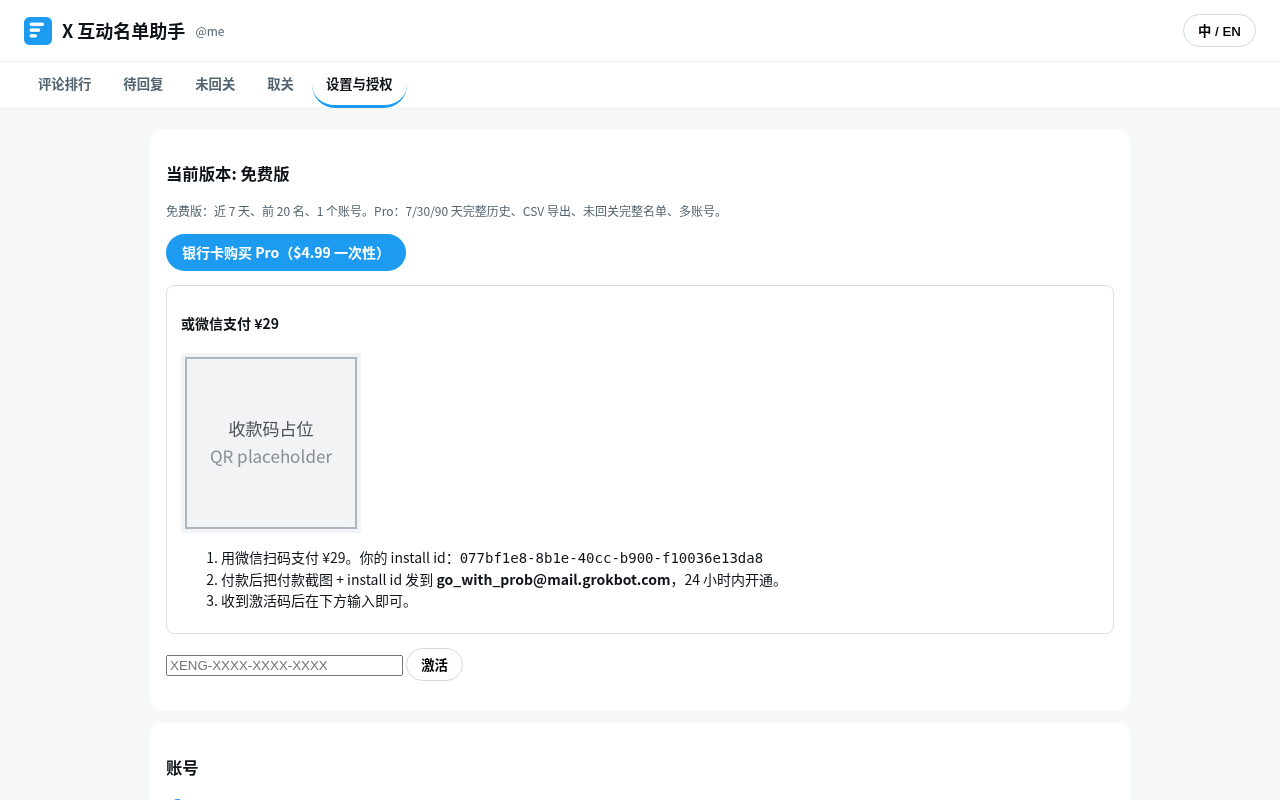
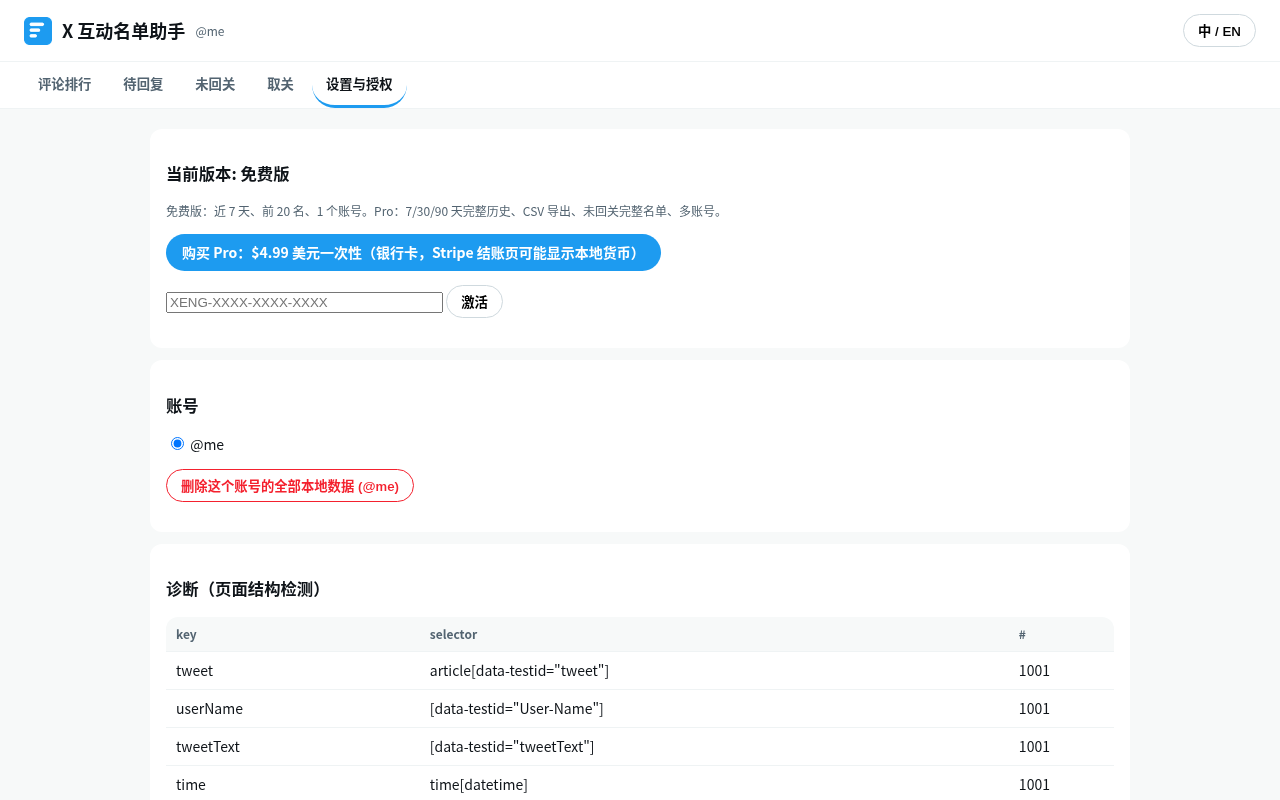
Stripe only (WeChat removed), release QR guard, bilingual landing site, forced refund re-check

diff --git a/tests/upgrade.test.ts b/tests/upgrade.test.ts
@@ -10,8 +10,42 @@ describe('upgrade link', () => {
   });
 });
 
-describe('manual WeChat option', () => {
-  it('is configured with ¥29, a placeholder contact and a local QR file', () => {
-    expect(CONFIG.WECHAT).toMatchObject({ ENABLED: true, PRICE_CNY: 29, QR: 'wechat_pay_qr.jpg', CONTACT: 'go_with_prob@mail.grokbot.com' });
+describe('Stripe only (no WeChat)', () => {
+  it('has no WeChat config or copy in the extension sources', async () => {
+    const { readFileSync, readdirSync } = await import('node:fs');
+    expect((CONFIG as Record<string, unknown>).WECHAT).toBeUndefined();
+    const files = [...readdirSync('src').map((f) => `src/${f}`), 'static/dashboard.html', 'static/dashboard.css',
+                   'static/_locales/en/messages.json', 'static/_locales/zh_CN/messages.json', 'store/listing.zh.md', 'store/listing.en.md'];
+    for (const f of files) {
+      const t = readFileSync(f, 'utf8');
+      for (const bad of ['微信', '¥29', '¥129', 'wechat', '收款码', '付款截图']) expect(t.toLowerCase(), `${bad} in ${f}`).not.toContain(bad.toLowerCase());
+    }
+  });
+});
+
+describe('release check', () => {
+  it('flags QR images, unexpected images and WeChat copy; passes a clean build', async () => {
+    const { mkdtempSync, mkdirSync, writeFileSync } = await import('node:fs');
+    const { tmpdir } = await import('node:os');
+    const { join } = await import('node:path');
+    const realQr = join(mkdtempSync(join(tmpdir(), 'qr-')), 'real.jpg');
+    writeFileSync(realQr, Buffer.from('fake-real-qr-bytes'));
+    process.env.XENG_REAL_QR_PATH = realQr;
+    vi.resetModules();
+    // @ts-expect-error plain .mjs script
+    const { checkRelease } = await import('../scripts/check_release.mjs');
+    const dir = mkdtempSync(join(tmpdir(), 'rel-'));
+    mkdirSync(join(dir, 'icons'));
+    writeFileSync(join(dir, 'icons/icon16.png'), 'png');
+    writeFileSync(join(dir, 'dashboard.html'), '<p>Buy Pro $4.99</p>');
+    expect(checkRelease(dir)).toEqual([]);
+    writeFileSync(join(dir, 'pay.jpg'), Buffer.from('fake-real-qr-bytes'));         // real QR under an innocent name
+    writeFileSync(join(dir, 'wechat_pay_qr.jpg'), 'x');
+    writeFileSync(join(dir, 'x.js'), 'const t = "或微信支付 ¥29"');
+    const bad = checkRelease(dir).join('\n');
+    expect(bad).toContain('pay.jpg: is the real payment QR');
+    expect(bad).toContain('wechat_pay_qr.jpg: QR/WeChat-like file name');
+    expect(bad).toContain('x.js: WeChat/QR payment text');
+    delete process.env.XENG_REAL_QR_PATH;
   });
 });

diff --git a/src/dashboard.ts b/src/dashboard.ts
@@ -88,22 +88,10 @@ async function viewSettings(): Promise<string> {
     <p class="muted">${esc(health.url)} · ${fmt(health.at)}</p>` : '<p class="muted">—</p>';
   return `<section><h3>${tr('plan')}: ${state.plan === 'pro' ? tr('pro') : tr('free')}</h3><p class="muted">${tr('freeNote')}</p>
     ${state.plan === 'pro' ? '' : `<p><a class="btn" href="${esc(upgradeUrl(state.installId))}" target="_blank">${tr('buy')}</a></p>
-    ${wechatBlock()}
     <p><input id="key" placeholder="XENG-XXXX-XXXX-XXXX" size="29"> <button id="act">${tr('activate')}</button> <span id="actmsg"></span></p>`}</section>
     <section><h3>${tr('account')}</h3>${accs.map((a) => `<label><input type="radio" name="acc" value="${esc(a)}" ${a === state.account ? 'checked' : ''}> @${esc(a)}</label> `).join('') || '—'}
     ${state.account ? `<p><button id="wipe" class="danger">${tr('wipe')} (@${esc(state.account)})</button></p>` : ''}</section>
     <section><h3>${tr('diag')}</h3>${diag}</section><p class="muted">${tr('privacy')} · <a href="${esc(CONFIG.PRIVACY_URL)}" target="_blank">Privacy</a></p>`;
-}
-
-/** Chinese-only manual WeChat Pay instructions with the install id the cashier needs. */
-export function wechatBlock(): string {
-  const w = CONFIG.WECHAT;
-  if (!w.ENABLED || state.lang !== 'zh') return '';
-  return `<div class="wechat"><h4>或微信支付 ¥${w.PRICE_CNY}</h4>
-    <img src="${esc(w.QR)}" alt="微信收款码" width="180" id="wxqr">
-    <ol><li>用微信扫码支付 ¥${w.PRICE_CNY}。你的 install id：<code>${esc(state.installId)}</code></li>
-    <li>付款后把付款截图 + install id 发到 <b>${esc(w.CONTACT)}</b>，24 小时内开通。</li>
-    <li>收到激活码后在下方输入即可。</li></ol></div>`;
 }
 
 async function deviceId(): Promise<string> {
@@ -139,7 +127,6 @@ function bind() {
     $('#actmsg').textContent = res.token && state.plan === 'pro' ? tr('activated') : tr('err') + (res.error || 'invalid-token');
     if (state.plan === 'pro') render();
   };
-  const qr = $('#wxqr') as HTMLImageElement | null; if (qr) qr.onerror = () => { qr.style.display = 'none'; };
   const wipe = $('#wipe');
   if (wipe) wipe.onclick = async () => { if (confirm(tr('wipe') + '?')) { await wipeAccount(state.account); await load(''); } };
 }

diff --git a/worker/test/worker.test.ts b/worker/test/worker.test.ts
@@ -99,6 +99,25 @@ describe('license worker', () => {
     expect([...env.LICENSES.m.values()].join()).not.toMatch(/@/); // no e-mails stored
   });
 
+  it('/paid re-checks refunds on every visit (forces revocation right after a refund)', async () => {
+    await call(`/paid?session_id=${SID}`);
+    const key = keyOf();
+    expect((await act(key, 'device-0001')).status).toBe(200);
+    charges.pi_1 = [charge({ amount_refunded: 499, refunded: true })];
+    expect((await act(key, 'device-0001')).status).toBe(200);        // activation: cached for 24 h
+    expect((await call(`/paid?session_id=${SID}`)).status).toBe(410); // /paid: immediate re-check
+    expect(await (await act(key, 'device-0001')).json()).toEqual({ error: 'revoked' });
+  });
+
+  it('works for a plain link purchase without client_reference_id (key tied to the session, not the install)', async () => {
+    sessions[SID] = session({ client_reference_id: null });
+    const r = await call(`/paid?session_id=${SID}`);
+    expect(r.status).toBe(200);
+    const key = keyOf();
+    expect(await r.text()).toContain(key);
+    expect((await act(key, 'any-other-device-01')).status).toBe(200);
+  });
+
   it('/paid always re-shows the key (no claim window), also long after issuance', async () => {
     await call(`/paid?session_id=${SID}`);
     const rec = JSON.parse(env.LICENSES.m.get(`key:${keyOf()}`)!) as LicenseRecord;
@@ -322,7 +341,7 @@ describe('admin CLI', () => {
     expect(code).toBe(0);
     expect(calls[0].url).toBe('https://license.test/admin/issue');
     expect((calls[0].init.headers as Record<string, string>).Authorization).toBe(`Bearer ${ADMIN}`);
-    expect(JSON.parse(String(calls[0].init.body))).toMatchObject({ channel: 'wechat', ref: 'wx1', source: 'cli' });
+    expect(JSON.parse(String(calls[0].init.body))).toMatchObject({ channel: 'comp', ref: 'wx1', source: 'cli' });
     expect(lines.join()).not.toContain(ADMIN);
     expect(await main(['issue', '--url', 'x', '--by', 'y', '--reason', 'r'], f, { ADMIN_TOKEN: 'short' }, out)).toBe(2);
   });

diff --git a/worker/src/index.ts b/worker/src/index.ts
@@ -355,7 +355,9 @@ async function paid(url: URL, env: Env, fetchImpl: typeof fetch = fetch): Promis
   try {
     const { key, rec: rec0 } = await redeem(sid, env, 'paid-redirect', fetchImpl);
     // the key is derived from the session, so this page can always re-show it (also after a store wipe)
-    const rec = await refreshRefund(key, rec0, env, fetchImpl);
+    // re-check the refund status on every visit (one extra read call): re-opening this page after a refund
+    // revokes the key immediately instead of waiting for the daily activation re-check
+    const rec = await refreshRefund(key, rec0, env, fetchImpl, true);
     if (rec.status !== 'active' || await isRevokedByEnv(key, rec, env)) throw new PayError('revoked', 410);
     return page(`<h1>感谢购买 X 互动名单助手 Pro / Thanks for buying Pro</h1><p>你的激活码 / Your license key:</p>
        <p><code style="font-size:22px;user-select:all">${esc(key)}</code></p>
@@ -469,7 +471,7 @@ async function readBody(req: Request): Promise<Record<string, unknown>> {
 async function adminIssue(req: Request, env: Env): Promise<Response> {
   const b = await readBody(req);
   const by = text(b.by, 'by'), reason = text(b.reason, 'reason');
-  const channel = String(b.channel || 'wechat').toLowerCase();
+  const channel = String(b.channel || 'comp').toLowerCase();
   if (!CHANNELS.has(channel)) throw new AdminError('bad channel');
   const ref = String(b.ref ?? '').trim();
   if (!ADMIN_REF_RE.test(ref)) throw new AdminError("'ref' (payment transaction id / note) is required: letters, digits, _-.:/# max 100");

diff --git a/src/i18n.ts b/src/i18n.ts
@@ -20,7 +20,7 @@ const D = {
             'Unfollow detection needs two complete Followers snapshots. Open your Followers page, click “Start snapshot”, and repeat in a few days.'],
   lastSnap: ['快照时间', 'Snapshot taken'], removed: ['取关了你', 'Unfollowed you'], added: ['新关注你', 'New followers'],
   account: ['账号', 'Account'], plan: ['当前版本', 'Plan'], free: ['免费版', 'Free'], pro: ['Pro', 'Pro'],
-  buy: ['银行卡购买 Pro（$4.99 一次性）', 'Buy Pro ($4.99 one-off)'], key: ['授权码', 'License key'], activate: ['激活', 'Activate'],
+  buy: ['购买 Pro：$4.99 美元一次性（银行卡，Stripe 结账页可能显示本地货币）', 'Buy Pro: $4.99 USD one-off (card; Stripe checkout may show your local currency)'], key: ['授权码', 'License key'], activate: ['激活', 'Activate'],
   wipe: ['删除这个账号的全部本地数据', 'Delete all local data for this account'], wiped: ['已删除', 'Deleted'],
   diag: ['诊断（页面结构检测）', 'Diagnostics (page structure check)'],
   privacy: ['所有数据只保存在你的浏览器本地，不上传任何服务器。唯一的网络请求是激活 Pro 授权。',

diff --git a/src/config.ts b/src/config.ts
@@ -8,9 +8,6 @@ export const CONFIG = {
   // ECDSA P-256 public key (JWK) matching the Worker's LICENSE_PRIVATE_JWK secret. Generate with `node scripts/keygen.mjs`.
   LICENSE_PUBLIC_JWK: { kty: 'EC', crv: 'P-256', x: 'ppmEi6hpdId5IJgYv3pIghDoHyteezJ15s6bssu5hko', y: 'bSnuoDnDL2bB_8uRaHZbz2gQe5fa7S34DaCEkH-gihQ' } as JsonWebKey,
   PRIVACY_URL: 'https://xeng-site.pages.dev/privacy',
-  // Manual WeChat Pay (Chinese UI only). The cashier issues the key by hand: docs/manual_unlock.md. No WeChat API.
-  // QR is a LOCAL, gitignored copy packaged from static/ (scripts/install_wechat_qr.sh); hidden if missing.
-  WECHAT: { ENABLED: true, PRICE_CNY: 29, QR: 'wechat_pay_qr.jpg', CONTACT: 'go_with_prob@mail.grokbot.com' },   // e-mail only; never a personal WeChat ID
 };
 
 /** Stripe allows alphanumerics, '-' and '_' (max 200) in client_reference_id. */

diff --git a/static/dashboard.css b/static/dashboard.css
@@ -10,4 +10,4 @@ button{border:1px solid #cfd9de;background:#fff;border-radius:999px;padding:6px 
 .empty{background:#fff;padding:24px;border-radius:12px;color:#536471}.upsell{background:#e8f5fd;padding:10px 14px;border-radius:10px}
 .btn{display:inline-block;background:#1d9bf0;color:#fff;padding:8px 16px;border-radius:999px;font-weight:700}section{background:#fff;padding:16px;border-radius:12px;margin-bottom:12px}
 .danger{color:#f4212e;border-color:#f4212e}.bad{color:#f4212e}#more{margin:12px auto;display:block}
-.wechat{border:1px solid #ddd;border-radius:8px;padding:8px 14px;margin:10px 0}.wechat img{display:block;margin:6px 0}
+

diff --git a/src/license.ts b/src/license.ts
@@ -41,7 +41,7 @@ export async function signToken(payload: LicensePayload, privateJwk: JsonWebKey)
   return `${p}.${b64urlEncode(sig)}`;
 }
 
-export const KEY_RE = /^XENG(-[A-Z0-9]{4}){3,4}$/;   // 3 groups: card payment; 4 groups: manual (WeChat)
+export const KEY_RE = /^XENG(-[A-Z0-9]{4}){3,4}$/;   // 3 groups: card payment; 4 groups: issued by hand (comps / support)
 
 export async function activate(apiBase: string, key: string, device: string, fetchImpl: typeof fetch = fetch):
     Promise<{ token?: string; error?: string }> {

diff --git a/scripts/build_site.py b/scripts/build_site.py
@@ -1,14 +1,105 @@
-"""Build the extension's public site (privacy policy for the Chrome Web Store) into site/ for Cloudflare Pages."""
-import html, pathlib, markdown
+"""Build the public site (bilingual landing page + privacy policy) into site/ for Cloudflare Pages.
+
+    python3 scripts/build_site.py            # then: wrangler pages deploy site --project-name xeng-site
+
+Stripe only, no WeChat. The release check (scripts/check_release.mjs) runs on site/ and fails the build on any
+payment QR, unexpected image or WeChat copy.
+"""
+import html, pathlib, shutil, subprocess, sys
+import markdown
+
+# One-line switch: show the "Buy Pro" Stripe link on the site. Off until the extension is in the Chrome Web Store
+# (a plain-link purchase works: the key is tied to the Checkout Session, not to an install).
+BUY_ENABLED = False
+
+PAYMENT_LINK = "https://buy.stripe.com/8x2bJ2gbY8bLfiC2hT0Ny03"
+CONTACT = "go_with_prob@mail.grokbot.com"
+NOTIFY = f"mailto:{CONTACT}?subject=Notify%20me%3A%20X%20Engagement%20List&body=Please%20email%20me%20when%20the%20extension%20is%20in%20the%20Chrome%20Web%20Store."
+SHOTS = {"en": [("en-1-leaderboard.png", "Top commenters"), ("en-2-pending.png", "Replies you haven't answered"),
+                ("en-3-not-following-back.png", "Not following back")],
+         "zh": [("zh-1-leaderboard.png", "评论排行"), ("zh-2-pending.png", "待回复"), ("zh-4-unfollowers.png", "取关名单")]}
+
 root = pathlib.Path(__file__).resolve().parents[1]
-out = root / "site"; out.mkdir(exist_ok=True)
+out = root / "site"
+shutil.rmtree(out, ignore_errors=True)
+(out / "screenshots").mkdir(parents=True)
+for lang in SHOTS:
+    for f, _ in SHOTS[lang]:
+        shutil.copyfile(root / "store" / "screenshots" / f, out / "screenshots" / f)
+
+CSS = """body{font:16px/1.65 system-ui,-apple-system,"PingFang SC","Microsoft YaHei",sans-serif;margin:0;color:#0f1419;background:#fff}
+main{max-width:980px;margin:0 auto;padding:0 20px 48px}header{display:flex;justify-content:space-between;align-items:center;max-width:980px;margin:0 auto;padding:16px 20px}
+.brand{font-weight:700;font-size:18px}.lang button{border:1px solid #cfd9de;background:#fff;border-radius:999px;padding:4px 12px;cursor:pointer;font:inherit;font-size:14px}
+h1{font-size:34px;line-height:1.25;margin:28px 0 12px}h2{font-size:24px;margin:44px 0 14px}.lead{font-size:19px;color:#36454f;max-width:760px}
+.btns{display:flex;flex-wrap:wrap;gap:10px;margin:22px 0}.btn{display:inline-block;padding:11px 20px;border-radius:999px;text-decoration:none;font-weight:600}
+.primary{background:#1d9bf0;color:#fff}.ghost{border:1px solid #cfd9de;color:#0f1419}.disabled{background:#eff3f4;color:#536471;cursor:not-allowed}
+.shots{display:grid;grid-template-columns:repeat(auto-fit,minmax(280px,1fr));gap:16px}.shots figure{margin:0}.shots img{width:100%;border:1px solid #e1e8ed;border-radius:10px}
+figcaption{font-size:14px;color:#536471;margin-top:6px}ul.points{padding-left:20px}ul.points li{margin:6px 0}
+table{border-collapse:collapse;width:100%;max-width:760px}th,td{border-bottom:1px solid #e1e8ed;padding:10px;text-align:left;vertical-align:top}th{background:#f7f9f9}
+.price{font-size:20px;font-weight:700}.muted{color:#536471;font-size:14px}footer{border-top:1px solid #e1e8ed;margin-top:48px;padding-top:18px}
+a{color:#1d9bf0}[data-lang]{display:none}html[lang=en] [data-lang=en],html[lang=zh-CN] [data-lang=zh]{display:block}"""
+
+T = {
+ "en": dict(title="X Engagement List — see who engages with your X posts",
+   h1="See who engages with your X posts, without sending your data anywhere.",
+   lead="A Chrome extension that turns the X pages you already visit into simple lists: your top commenters, the replies you haven't answered, and the accounts that don't follow you back. Everything is stored locally in your browser.",
+   install="Install from Chrome Web Store (coming soon)", notify="Notify me when it's available", buy="Buy Pro — $4.99 one-off",
+   shots="Screenshots", shots_note="Screenshots use sample data.",
+   what="What it does", points=["<b>Top commenters</b> (7 / 30 / 90 days): who replies to your posts most often, with a link to their latest reply.",
+     "<b>To reply</b>: comments on your posts that you haven't answered yet.",
+     "<b>Not following back</b>: open your own Following page and start a snapshot; the extension scrolls slowly (you can stop any time) and lists who doesn't follow you back.",
+     "<b>Unfollowers</b>: compare two complete snapshots of your Followers page to see who left."],
+   how="How it works", how_p="The extension reads the X pages you open in your own browser and stores what it sees in your browser's local database. It doesn't use the X API, doesn't ask for your password, and never follows, unfollows, likes, replies or messages. The only network request it makes is the Pro license check.",
+   plans="Free vs Pro", feat="Feature", free="Free", pro="Pro", rows=[("History window", "Last 7 days", "7 / 30 / 90 days"), ("Rows per list", "Top 20", "All rows"),
+     ("CSV export", "—", "✓"), ("X accounts", "1", "Multiple"), ("Price", "$0", "$4.99 USD one-off, no subscription")],
+   price_note="Pro is paid by card through Stripe and charged in USD; Stripe checkout may show your local currency. After paying you get a license key to enter in the extension's Settings. For refunds or questions, email us.",
+   privacy="Privacy policy", contact="Contact", disclaimer="Not affiliated with or endorsed by X Corp. “X” is used only to describe the website the extension works with."),
+ "zh": dict(title="X 互动名单助手 — 看清谁在和你互动",
+   h1="看清谁在和你的 X 帖子互动，数据不离开你的浏览器。",
+   lead="一个 Chrome 扩展：把你平时浏览的 X 页面整理成清单——评论最多的人、还没回复的评论、没有回关你的账号。所有数据只保存在你自己的浏览器里。",
+   install="从 Chrome 应用商店安装（即将上架）", notify="上架后通知我", buy="购买 Pro：$4.99 一次性",
+   shots="截图", shots_note="截图中为示例数据。",
+   what="功能", points=["<b>评论排行</b>（近 7 / 30 / 90 天）：谁最常回复你的帖子，并附最近一条回复的链接。",
+     "<b>待回复</b>：你还没有回复的评论。",
+     "<b>未回关</b>：打开你自己的「正在关注」页面并开始快照，扩展会慢慢滚动（随时可以停止），列出没有回关你的账号。",
+     "<b>取关名单</b>：对比两次完整的粉丝列表快照，看谁取关了你。"],
+   how="工作方式", how_p="扩展只读取你在自己浏览器里打开的 X 页面，并把看到的内容存进浏览器的本地数据库。不调用 X 的 API，不需要你的密码，也不会替你关注、取关、点赞、回复或私信。唯一的网络请求是 Pro 授权校验。",
+   plans="免费版 vs Pro", feat="功能", free="免费版", pro="Pro", rows=[("历史范围", "近 7 天", "7 / 30 / 90 天"), ("每个清单行数", "前 20 行", "全部"),
+     ("CSV 导出", "—", "✓"), ("X 账号数", "1 个", "多个"), ("价格", "$0", "$4.99 美元一次性，不订阅")],
+   price_note="Pro：$4.99 美元，通过 Stripe 用银行卡支付，按美元收费，结账页可能显示本地货币金额。付款后获得授权码，在扩展的「设置与授权」里输入即可。退款或其他问题请发邮件联系。",
+   privacy="隐私政策", contact="联系", disclaimer="本扩展与 X Corp. 无任何关联，也未获其认可。“X”仅用于说明扩展所适用的网站。"),
+}
+
+def section(lang):
+    t = T[lang]; e = html.escape
+    buy = f'<a class="btn ghost" href="{PAYMENT_LINK}">{e(t["buy"])}</a>' if BUY_ENABLED else ""
+    shots = "".join(f'<figure><a href="screenshots/{f}"><img src="screenshots/{f}" alt="{e(c)}" loading="lazy"></a><figcaption>{e(c)}</figcaption></figure>' for f, c in SHOTS[lang])
+    rows = "".join(f"<tr><td>{e(a)}</td><td>{e(b)}</td><td>{e(c)}</td></tr>" for a, b, c in t["rows"])
+    return f"""<div data-lang="{lang}"><h1>{e(t['h1'])}</h1><p class="lead">{e(t['lead'])}</p>
+<div class="btns"><span class="btn disabled" aria-disabled="true">{e(t['install'])}</span><a class="btn primary" href="{NOTIFY}">{e(t['notify'])}</a>{buy}</div>
+<h2>{e(t['shots'])}</h2><div class="shots">{shots}</div><p class="muted">{e(t['shots_note'])}</p>
+<h2>{e(t['what'])}</h2><ul class="points">{''.join(f'<li>{p}</li>' for p in t['points'])}</ul>
+<h2>{e(t['how'])}</h2><p>{e(t['how_p'])}</p>
+<h2>{e(t['plans'])}</h2><table><tr><th>{e(t['feat'])}</th><th>{e(t['free'])}</th><th>{e(t['pro'])}</th></tr>{rows}</table>
+<p class="muted">{e(t['price_note'])}</p>
+<footer><p><a href="/privacy">{e(t['privacy'])}</a> · {e(t['contact'])}: <a href="mailto:{CONTACT}">{CONTACT}</a></p><p class="muted">{e(t['disclaimer'])}</p></footer></div>"""
+
+index = f"""<!doctype html><html lang="en"><head><meta charset="utf-8"><meta name="viewport" content="width=device-width,initial-scale=1">
+<title>X Engagement List / X 互动名单助手</title><meta name="description" content="{html.escape(T['en']['lead'])}">
+<style>{CSS}</style><script>(function(){{var q=new URLSearchParams(location.search).get("lang");var zh=q?q==="zh":/^zh/i.test(navigator.language||"");
+document.documentElement.lang=zh?"zh-CN":"en";}})();</script></head><body>
+<header><div class="brand">X Engagement List · X 互动名单助手</div><div class="lang"><button type="button" id="lang">中 / EN</button></div></header>
+<main>{section('en')}{section('zh')}</main>
+<script>document.getElementById("lang").onclick=function(){{var h=document.documentElement;h.lang=h.lang==="en"?"zh-CN":"en";}};</script>
+</body></html>"""
+(out / "index.html").write_text(index, encoding="utf-8")
+
 body = markdown.markdown((root / "store" / "privacy-policy.md").read_text(encoding="utf-8"))
-page = lambda title, inner: f"""<!doctype html><html lang="en"><head><meta charset="utf-8"><meta name="viewport" content="width=device-width,initial-scale=1">
-<title>{html.escape(title)}</title><style>body{{font:16px/1.65 system-ui,-apple-system,"PingFang SC",sans-serif;max-width:760px;margin:40px auto;padding:0 18px;color:#0f1419}}h1{{font-size:24px}}a{{color:#1d9bf0}}</style></head><body>{inner}</body></html>"""
-(out / "privacy.html").write_text(page("Privacy Policy — X Engagement List", body), encoding="utf-8")
-(out / "index.html").write_text(page("X Engagement List / X 互动名单助手", """<h1>X Engagement List / X 互动名单助手</h1>
-<p>A local-only Chrome extension: commenter leaderboard, pending replies, and not-following-back lists from the X pages you visit. Your data stays in your browser.</p>
-<p>本地运行的 Chrome 扩展：评论排行、待回复清单、未回关名单。数据只保存在你的浏览器里。</p>
-<p><a href="privacy.html">Privacy Policy / 隐私政策</a> · Contact: go_with_prob@mail.grokbot.com</p>"""), encoding="utf-8")
+(out / "privacy.html").write_text(f"""<!doctype html><html lang="en"><head><meta charset="utf-8"><meta name="viewport" content="width=device-width,initial-scale=1">
+<title>Privacy Policy — X Engagement List</title><style>body{{font:16px/1.65 system-ui,-apple-system,"PingFang SC",sans-serif;max-width:760px;margin:40px auto;padding:0 18px;color:#0f1419}}h1{{font-size:24px}}a{{color:#1d9bf0}}</style></head>
+<body><p><a href="/">← X Engagement List</a></p>{body}</body></html>""", encoding="utf-8")
 (out / "_headers").write_text("/*\n  X-Content-Type-Options: nosniff\n  Referrer-Policy: strict-origin-when-cross-origin\n  X-Frame-Options: DENY\n", encoding="utf-8")
+r = subprocess.run(["node", str(root / "scripts" / "check_release.mjs"), str(out)])
+if r.returncode:
+    sys.exit("site/ failed the release check (QR / WeChat)")
 print("site/ ready:", sorted(p.name for p in out.iterdir()))

diff --git a/docs/manual_unlock.md b/docs/manual_unlock.md
@@ -1,10 +1,8 @@
-# 手动发码 / Manual license keys (WeChat Pay) for X 互动名单助手 Pro
+# 手动发码 / Manual license keys (comps and support) for X 互动名单助手 Pro
 
-For the cashier. In the Chinese UI (Settings), buyers see "或微信支付 ¥29": the QR, their **安装 ID / install id**, and the contact.
-The contact is **go_with_prob@mail.grokbot.com** (`src/config.ts` → `CONFIG.WECHAT.CONTACT`). Never publish a personal WeChat ID.
-Buyer copy (zh): "付款后把付款截图 + install id 发到 go_with_prob@mail.grokbot.com，24 小时内开通". **Issue the key within 24 h.**
-Buyers pay the QR, then send the install id plus a screenshot or transaction number.
-**No WeChat API is ever called**: the cashier checks the payment in WeChat by hand, then issues a key.
+Stripe is the only payment method. WeChat Pay was removed from the extension, the store listing and the site on
+2026-10-22, and no QR or ¥ price is shown anywhere. This path is for the owner only: free comps (reviewers,
+partners) and support cases. It never takes money itself. Every action is logged.
 
 ## 1. One-time setup: ADMIN_TOKEN
 
@@ -22,8 +20,8 @@ cd worker && npx wrangler secret put ADMIN_TOKEN       # paste it at the prompt
 
 ```bash
 read -rs ADMIN_TOKEN && export ADMIN_TOKEN   # paste; nothing is echoed and it isn't saved to shell history
-node scripts/admin.mjs issue --url <LICENSE_URL> --by owner --reason "WeChat Pay ¥29 confirmed" \
-  --ref 4200001234202610220001 --amount 29 --install <install id from the buyer>
+node scripts/admin.mjs issue --url <LICENSE_URL> --by owner --reason "comp for reviewer" \
+  --channel comp --ref comp-2026-001
 # → {"result":"issued","key":"XENG-…"}   send the key to the buyer; they paste it in Settings → Activate
 ```
 
@@ -31,14 +29,13 @@ or with curl:
 
 ```bash
 curl -sS -X POST "<LICENSE_URL>/admin/issue" -H "Authorization: Bearer $ADMIN_TOKEN" -H "Content-Type: application/json" \
-  -d '{"by":"owner","reason":"WeChat Pay confirmed","channel":"wechat","amount":29,"currency":"CNY",
-       "ref":"4200001234202610220001","install":"<install id>"}'
+  -d '{"by":"owner","reason":"comp for reviewer","channel":"comp","ref":"comp-2026-001"}'
 ```
 
-- `ref` (the WeChat transaction id, or the note if there is no id) is **required**.
+- `ref` (a unique note, e.g. `comp-2026-001`) is **required**.
 - **Idempotent per channel + ref**: running it again for the same ref returns `{"result":"existing","key":<the same key>}` and never mints a second key.
   The key is derived from channel + ref, so two concurrent calls also give one key.
-- `channel` defaults to `wechat`; `currency` defaults to CNY for wechat/alipay; `install` is optional.
+- `channel` defaults to `comp`; `install` is optional.
 
 ## 3. Revoke (refund)
 
@@ -50,7 +47,7 @@ node scripts/admin.mjs revoke --url <LICENSE_URL> --by owner --reason "refunded"
 - Activated devices lose Pro when their token renews, within 30 days. New activations fail at once.
 - Re-issuing for a refunded ref returns the same, revoked key. Use a new ref for a genuine new payment.
 - Stripe purchases are revoked automatically: by the refund re-check (Charges: Read) or the `charge.refunded` webhook (docs/stripe_setup.md), or by hand with this command.
-- **Make it permanent.** The store is wiped on Render restarts. Add the returned `add_to_REVOKED_REFS` value (e.g. `wechat:<ref>`) to the
+- **Make it permanent.** The store is wiped on Render restarts. Add the returned `add_to_REVOKED_REFS` value (e.g. `comp:<ref>`) to the
   `REVOKED_REFS` env var on Render and redeploy. `node scripts/admin.mjs revoked-refs --from <exported log>` prints the full list.
 - Keys issued here have 4 groups (`XENG-XXXX-XXXX-XXXX-XXXX`) and are self-verifying, so they keep working after a wipe.
 
@@ -67,8 +64,8 @@ node scripts/admin.mjs revoke --url <LICENSE_URL> --by owner --reason "refunded"
 - Lockout via KV counters (15 min): 5 failures per `CF-Connecting-IP`, or 20 failures in total, return 429, even for the right token.
   KV is eventually consistent, so treat these as approximate limits; the token's length is the real protection.
 
-## 5. QR image
+## 5. No QR, ever
 
-`static/wechat_pay_qr.jpg` is a **local, gitignored copy**. Create it with `scripts/install_wechat_qr.sh`, which copies `/workspace/payment/wechat_pay_qr.jpg`.
-It is referenced by `CONFIG.WECHAT.QR`. `npm run build` packages it, so **the Chrome Web Store zip contains the QR**, which is intended because buyers must see it.
-It is not in git. If it's missing, the image hides and the text instructions remain.
+No payment QR is shipped. `scripts/build.mjs` copies only an allowlist of static files and then runs `scripts/check_release.mjs`.
+`scripts/package.mjs` checks the zip too, and the site build checks `site/`.
+Each check fails on: any image other than the icons and the site screenshots; QR/WeChat-like file names; a file identical to the owner's real QR; or WeChat/¥ payment copy.

diff --git a/ACCEPTANCE.md b/ACCEPTANCE.md
@@ -8,6 +8,6 @@
 | 4 | Chrome Web Store review readiness (single purpose, privacy policy, minimal permissions) | **READY, not submitted** | `permissions: []`, no host_permissions, CSP self; `store/review-notes.md`, `store/privacy-policy.md`. Risk: "X" in the name (fallback name prepared). |
 | 5 | No automatic follow/unfollow/like/DM; no network except license | **PASS** | Code has no click/dispatch on X controls; E2E records 0 external requests in free plan. Only network: `POST /activate` (activation / renewal). |
 | 6 | Free = 7 days / top 20; Pro = $4.99 one-off | **PASS (logic)**, payment link **WIRED** (local), live round trip **PENDING** | Unit + E2E check the 20-row cap and "10 hidden" upsell; 30/90-day buttons locked. Upgrade button → live link + `?client_reference_id=<install id>` (tests/upgrade.test.ts). Needs the owner's dashboard steps (docs/stripe_setup.md) + deployed Worker. |
-| 7a | Manual WeChat keys (`/admin/issue`, `/admin/revoke`, `/admin/log`, `scripts/admin.mjs`) | **PASS (tests)** | ADMIN_TOKEN ≥ 32 chars (else 404), constant-time compare, KV lockout 5/IP and 20 global per 15 min, append-only KV log without the token, one key per channel+ref, idempotent revoke, CLI sends bearer and never prints it. zh Settings shows ¥29 WeChat + install id; contact go_with_prob@mail.grokbot.com. |
+| 7a | Manual keys (comps/support) (`/admin/issue`, `/admin/revoke`, `/admin/log`, `scripts/admin.mjs`) | **PASS (tests)** | ADMIN_TOKEN ≥ 32 chars (else 404), constant-time compare, KV lockout 5/IP and 20 global per 15 min, append-only KV log without the token, one key per channel+ref, idempotent revoke, CLI sends bearer and never prints it. WeChat Pay UI removed 2026-10-22 (Stripe only); `tests/upgrade.test.ts` + `scripts/check_release.mjs` guard against WeChat copy and QR images. |
 | 7 | License Worker | **PASS (tests)**, deploy **BLOCKED** | 11 worker tests: `/paid` API verification with the restricted key (paid, link id, 499 usd, both Adaptive Pricing shapes, malformed ids never hit the API), single-use deterministic key, 7-day re-display window, no key/`sk_` → nothing issued, webhook backup re-verified via API, 3-device cap, CORS allow-list, refund revocation. Needs Cloudflare account. |
 | 8 | Deliverables: extension package, zh/en store assets, license Worker | **PASS (with placeholders)** | `release/x-engagement-list-0.1.0-PLACEHOLDERS.zip` (80 KB), `store/` (listing zh/en, 9 screenshots 1280×800, 440×280 tile), `worker/`. |

diff --git a/store/privacy-policy.md b/store/privacy-policy.md
@@ -6,7 +6,7 @@ _Last updated: 2026-10-22 · Publisher: ohomygood · Contact: go_with_prob@mail.
 
 **Where it is stored.** Only in your browser's IndexedDB, inside the extension. It is never sent to us or anyone else. You can delete one account's data in Settings, or all data by removing the extension.
 
-**Network requests.** The extension makes one kind of request: when you activate or renew Pro, it sends your license key and a random device ID (generated by the extension, not linked to your identity) to our license server, which returns a signed token. The license server stores the key, its status, up to 3 device IDs, and the Stripe Checkout session/payment IDs needed to handle refunds. It does not store your name, e-mail or X account. The license server runs on Render; its records (license key, status, device IDs, payment references) also appear in the server's hosting logs so they survive restarts. Payments are processed by Stripe under Stripe's privacy policy. When you click Upgrade, the Stripe checkout link carries the same random install ID as a reference (`client_reference_id`) so the license server can match your payment; it is stored with your license record. If you pay by WeChat instead, you send that install ID and your payment reference to us yourself; we store them with the license record to issue and, if refunded, revoke the key.
+**Network requests.** The extension makes one kind of request: when you activate or renew Pro, it sends your license key and a random device ID (generated by the extension, not linked to your identity) to our license server, which returns a signed token. The license server stores the key, its status, up to 3 device IDs, and the Stripe Checkout session/payment IDs needed to handle refunds. It does not store your name, e-mail or X account. The license server runs on Render; its records (license key, status, device IDs, payment references) also appear in the server's hosting logs so they survive restarts. Payments are processed by Stripe under Stripe's privacy policy. When you click Upgrade, the Stripe checkout link carries the same random install ID as a reference (`client_reference_id`) so the license server can match your payment; it is stored with your license record.
 
 **What we never do.** No analytics, no tracking, no ads, no selling or sharing of data, no automated actions on X, no collection of passwords, cookies or messages.
 
